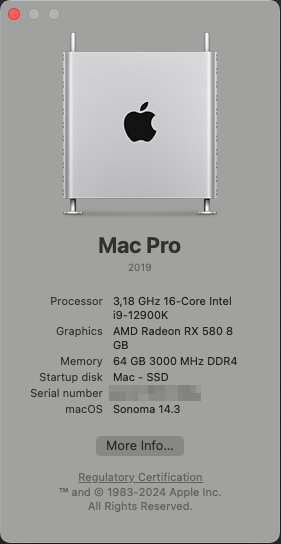
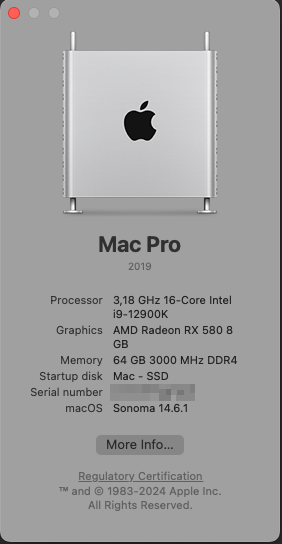
Updated Readme.md
changed a few versions (MacOS and wrong kext versions)
Added updated About My Mac screenshot

diff --git a/README.md b/README.md
@@ -14,13 +14,13 @@
 - MacOS Sonoma 14.0 on a 3rd SSD
 - Windows 11 23H2 hosted in VMWare Fusion
 
-**[OC Version 1.0.0](https://github.com/acidanthera/OpenCorePkg/releases/tag/1.0.0)**
+**[OC Version 1.0.1](https://github.com/acidanthera/OpenCorePkg/releases/tag/1.0.1)**
 
 # What is working?
 
 **Almost everything:**
   
-- MacOS Sonoma 14.6
+- MacOS Sonoma 14.6.1
 - Audio  
 - DP and HDMI via dGPU  
 - Screen 1: 4k via DP  
@@ -46,11 +46,11 @@
 | **Kext**  | **Version**  |
 |:----------|:----------|
 | [Lilu](https://github.com/acidanthera/Lilu/releases/tag/1.6.8)    | 1.6.8
-| [AppleALC](https://github.com/acidanthera/AppleALC/releases/tag/1.9.0)| 1.9.0
+| [AppleALC](https://github.com/acidanthera/AppleALC/releases/tag/1.9.1)| 1.9.1
 | [WhateverGreen](https://github.com/acidanthera/WhateverGreen/releases/tag/1.6.7)    | 1.6.7
 | [VirtualSMC](https://github.com/acidanthera/VirtualSMC/releases/tag/1.3.3)    | 1.3.3
-| [SMCProcessor](https://github.com/acidanthera/VirtualSMC/releases/tag/1.3.1)    | 1.3.1
-| [SMCSuperIO](https://github.com/acidanthera/VirtualSMC/releases/tag/1.3.1)    | 1.3.1
+| [SMCProcessor](https://github.com/acidanthera/VirtualSMC/releases/tag/1.3.3)    | 1.3.3
+| [SMCSuperIO](https://github.com/acidanthera/VirtualSMC/releases/tag/1.3.3)    | 1.3.3
 | [CpuTopologyRebuild](https://github.com/b00t0x/CpuTopologyRebuild/releases/tag/1.1.1)    | 1.1.1
 | [CpuTscSync](https://github.com/acidanthera/CpuTscSync/releases/tag/1.1.1)    | 1.1.1
 | [NVMeFix](https://github.com/acidanthera/NVMeFix/releases/tag/1.1.2)    | 1.1.2
